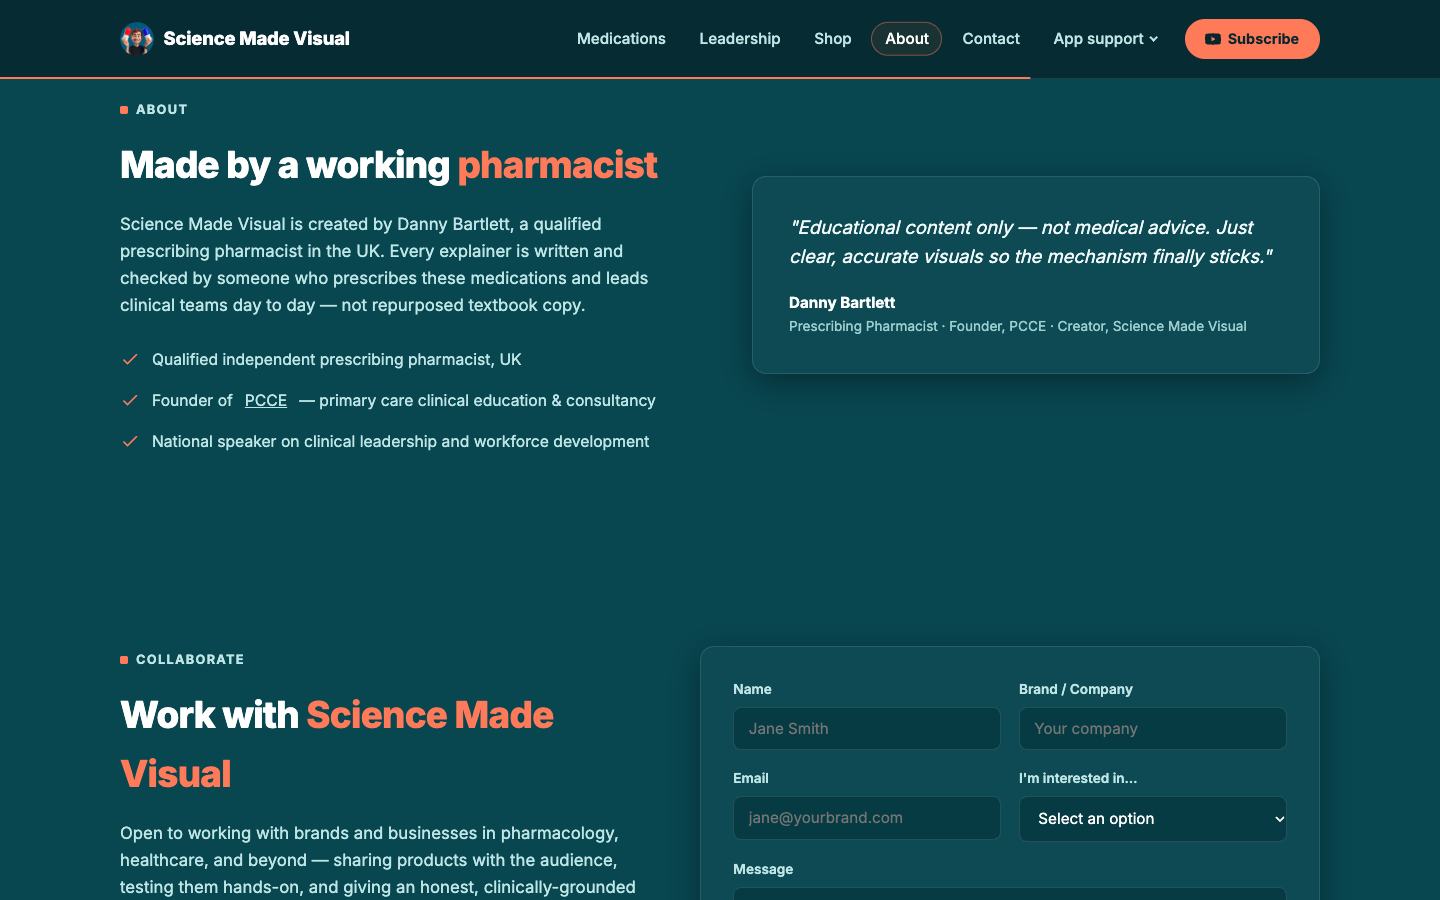
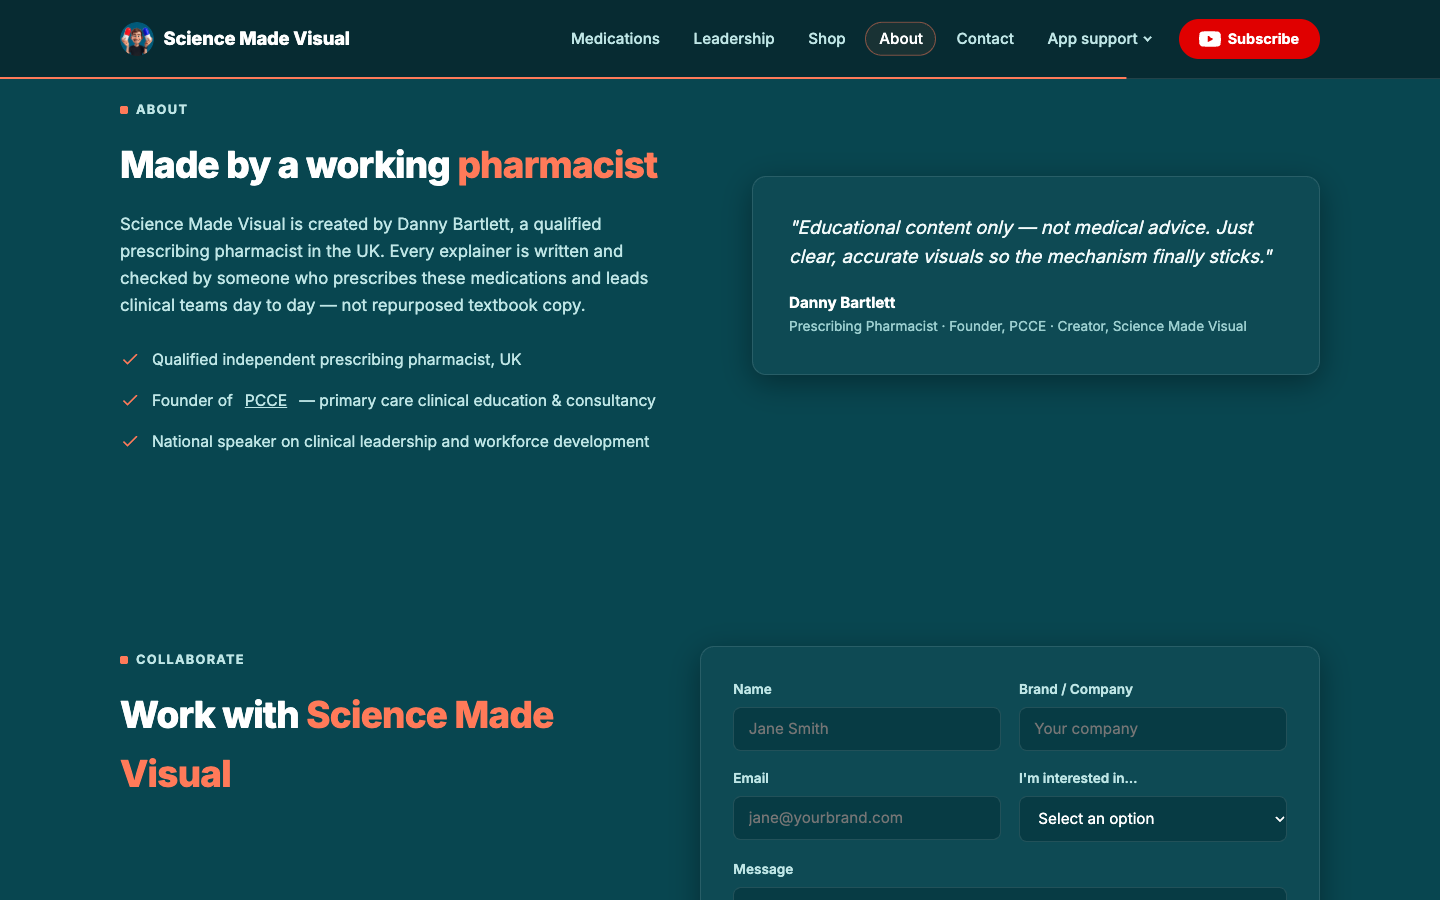
Filter pills show their topic picture

Changed region(s): [[0.0938, 0.9022, 0.4375, 0.9956], [0.4062, 0.0, 0.9375, 0.0933]]

diff --git a/index.html b/index.html
@@ -544,6 +544,13 @@
     .btn-youtube, .nav-cta.btn-youtube, #subscribe-cta .btn-youtube { background: #E00000; color: #fff !important; border-color: transparent; }
     .btn-youtube svg, .nav-cta.btn-youtube svg { width: 22px; height: 22px; fill: #fff; }
     .btn-youtube:hover, .nav-cta.btn-youtube:hover { background: #C40000; transform: translateY(-2px); box-shadow: 0 10px 30px rgba(224,0,0,.35); }
+    /* Filter pills carry their topic picture instead of a dot */
+    .pill:has(img) { padding: .3rem .95rem .3rem .3rem; }
+    .pill img { width: 34px; height: 34px; border-radius: 50%; object-fit: cover; background: var(--bg); flex-shrink: 0;
+      box-shadow: 0 0 0 2px color-mix(in srgb, var(--tc) 60%, transparent); transition: transform .25s; }
+    .pill:hover img { transform: scale(1.1) rotate(-4deg); }
+    .pill[aria-pressed="true"] img { box-shadow: 0 0 0 2px var(--dark-text); }
+    .pill[data-filter]:not([data-filter="all"]):has(img)::before { display: none; }
   </style>
   <script>
     // Opt into motion before first paint so revealed content never flashes.
@@ -853,11 +860,11 @@
   // Drug-class tags are inferred from each title, so new episodes need no extra
   // field — first match wins; anything unmatched is tagged "More".
   const TOPICS = [
-    { key: 'cardio',      label: 'Cardiovascular',    match: /calcium channel|statin|beta.?blocker|ace inhibitor|anticoagul/i },
-    { key: 'antibiotics', label: 'Antibiotics',       match: /penicillin|macrolide|antibiotic/i },
-    { key: 'metabolic',   label: 'Diabetes & weight', match: /glp-1|sglt2|diabetes|insulin|metformin|weight/i },
-    { key: 'neuro',       label: 'Neurology',         match: /careldopa|parkinson|epilep|migraine/i },
-    { key: 'mental',      label: 'Mental health',     match: /ssri|snri|antidepress|anxiety/i }
+    { key: 'cardio',      label: 'Cardiovascular',    img: 'ccb', match: /calcium channel|statin|beta.?blocker|ace inhibitor|anticoagul/i },
+    { key: 'antibiotics', label: 'Antibiotics',       img: 'macrolides', match: /penicillin|macrolide|antibiotic/i },
+    { key: 'metabolic',   label: 'Diabetes & weight', img: 'glp1', match: /glp-1|sglt2|diabetes|insulin|metformin|weight/i },
+    { key: 'neuro',       label: 'Neurology',         img: 'careldopa', match: /careldopa|parkinson|epilep|migraine/i },
+    { key: 'mental',      label: 'Mental health',     img: 'ssri', match: /ssri|snri|antidepress|anxiety/i }
   ];
   const topicFor = title => TOPICS.find(t => t.match.test(title)) || { key: 'more', label: 'More' };
 
@@ -892,7 +899,7 @@
       .filter(t => t.key === 'all' || counts[t.key]);
     wrap.innerHTML = pills.map(t => `
       <button type="button" class="pill" data-filter="${t.key}" aria-pressed="${t.key === 'all'}">
-        ${t.label}<span class="pill-count">${t.key === 'all' ? cards.length : counts[t.key]}</span>
+        ${t.img ? `<img src="images/topics/${t.img}.jpg" alt="" width="34" height="34" loading="lazy" decoding="async">` : ''}${t.label}<span class="pill-count">${t.key === 'all' ? cards.length : counts[t.key]}</span>
       </button>`).join('');
     // Gliding filter (FLIP): leaving cards fade out, staying cards slide to
     // their new slot, arriving cards fade in. Cards are hidden, never removed,
